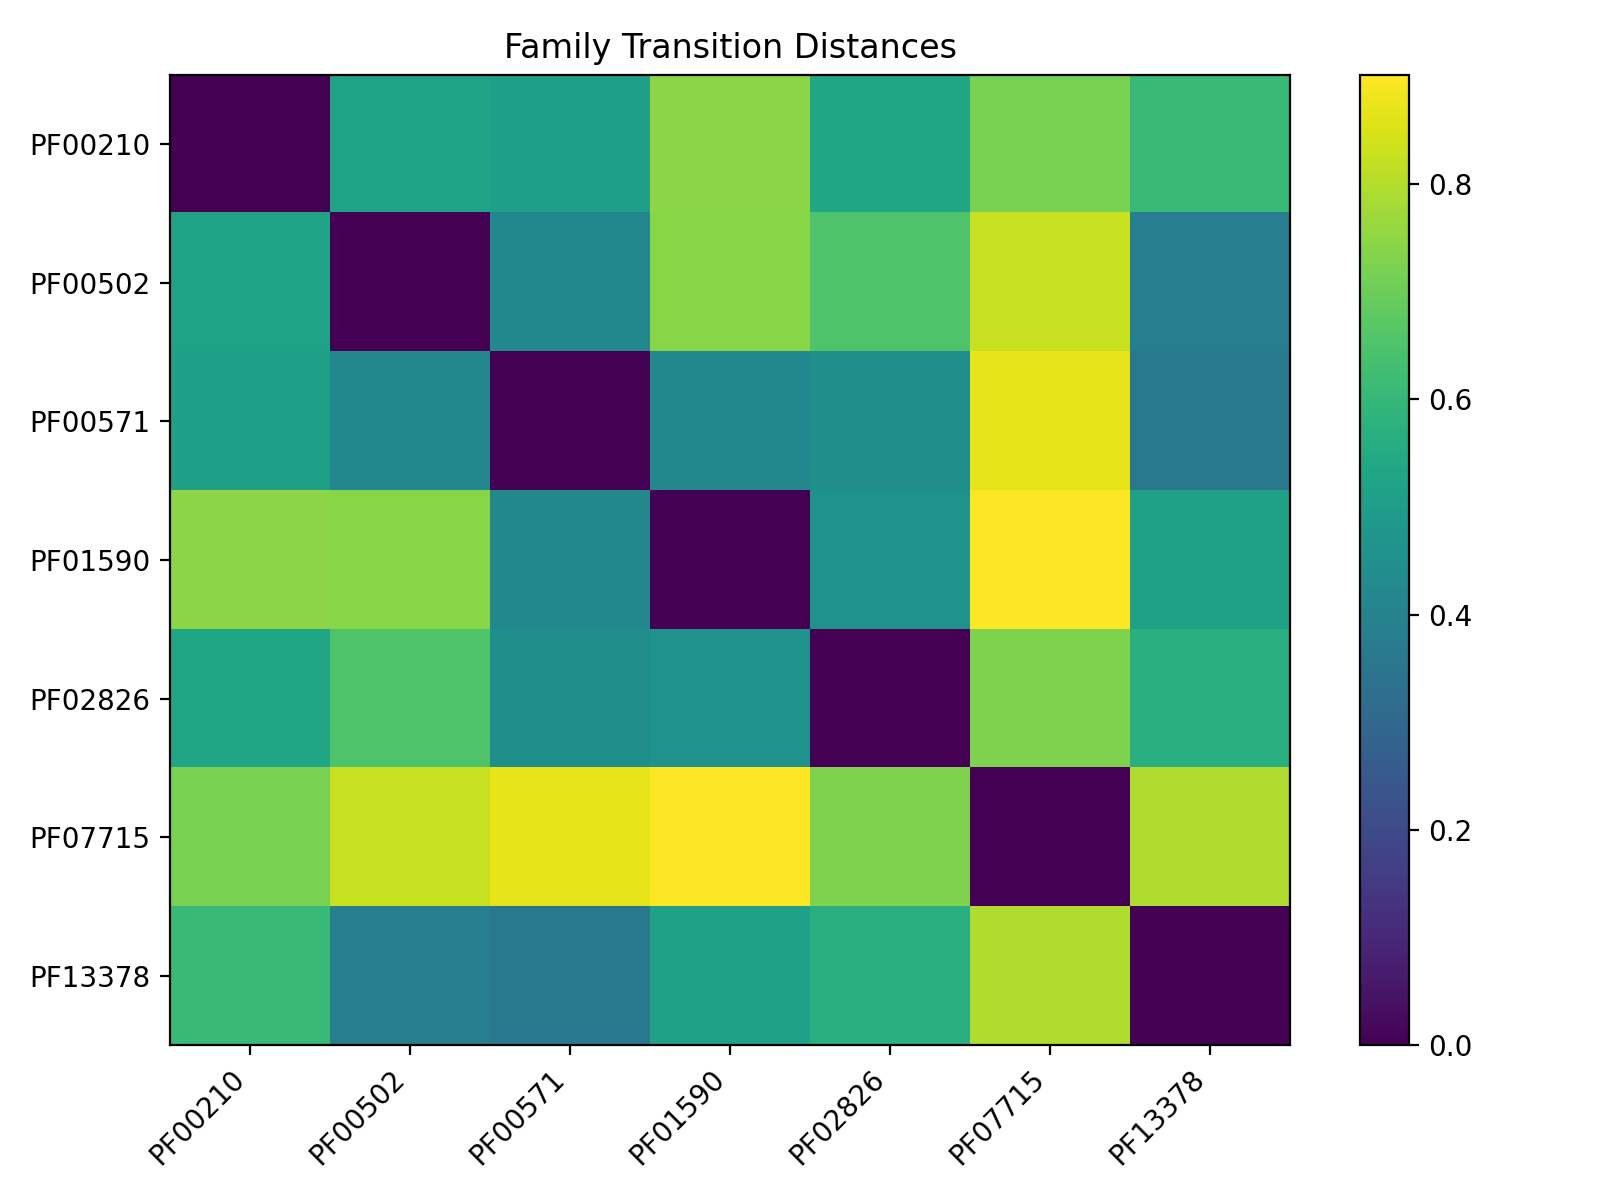
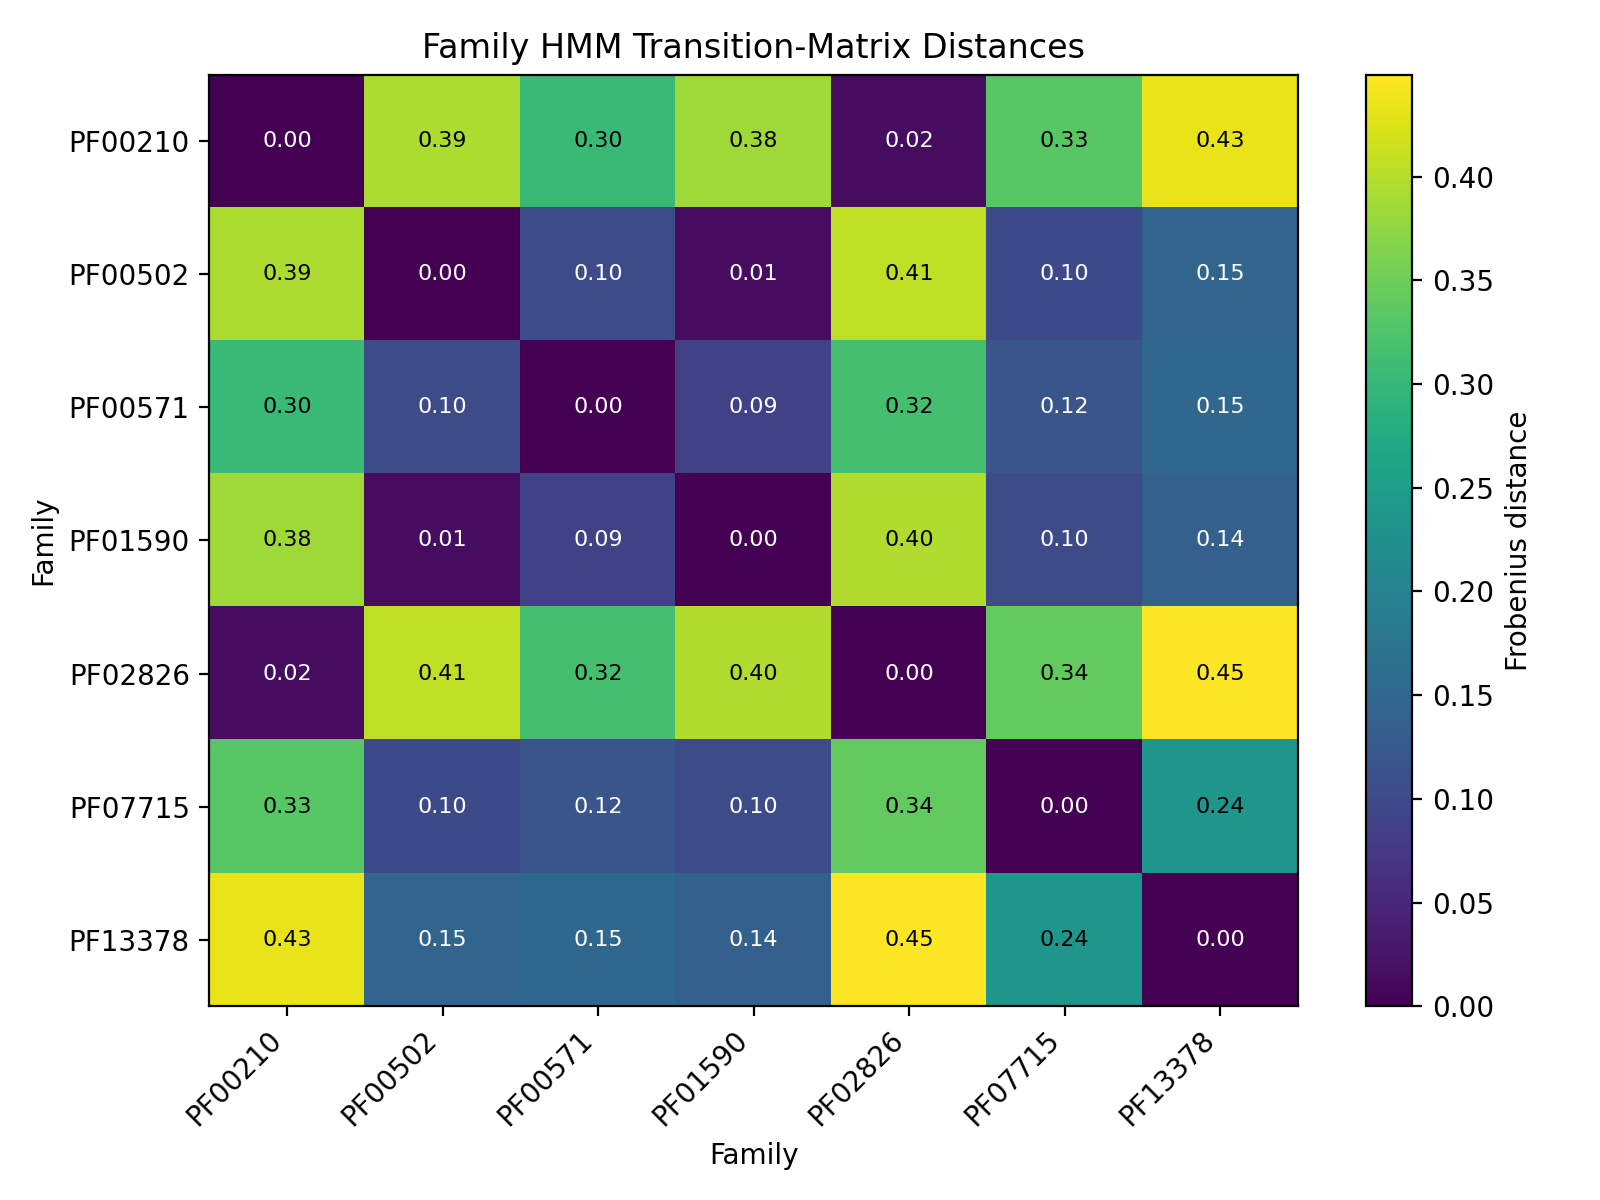
add poster reporting tables figures and captions

diff --git a/scripts/make_report_tables.py b/scripts/make_report_tables.py
@@ -1,0 +1,199 @@
+from __future__ import annotations
+
+import csv
+from pathlib import Path
+from typing import Any
+
+from _bootstrap import bootstrap
+
+ROOT = bootstrap()
+
+from protein_hmm.config import load_project_config
+from protein_hmm.utils.io import read_json
+from protein_hmm.utils.paths import resolve_project_path
+
+
+def _write_csv(path: Path, rows: list[dict[str, Any]], fieldnames: list[str]) -> None:
+    path.parent.mkdir(parents=True, exist_ok=True)
+    with path.open("w", encoding="utf-8", newline="") as handle:
+        writer = csv.DictWriter(handle, fieldnames=fieldnames)
+        writer.writeheader()
+        writer.writerows(rows)
+
+
+def _fmt(value: float | int | None, digits: int = 4) -> str:
+    if value is None:
+        return ""
+    if isinstance(value, int):
+        return str(value)
+    return f"{value:.{digits}f}"
+
+
+def _family_counts_text(counts: dict[str, int]) -> str:
+    return "; ".join(f"{family}:{count}" for family, count in counts.items())
+
+
+def _state_map_text(mapping: dict[str, str] | dict[int, str] | None) -> str:
+    if not mapping:
+        return ""
+    return "; ".join(f"{state}->{label}" for state, label in mapping.items())
+
+
+def _model_evaluation_rows(model_selection: dict[str, Any]) -> list[dict[str, Any]]:
+    rows = []
+    for row in model_selection.get("results", []):
+        evaluation = row.get("annotation_evaluation", {})
+        diagnostics = row.get("training_diagnostics", {})
+        rows.append(
+            {
+                "num_states": row["num_states"],
+                "train_log_likelihood": _fmt(row.get("train_log_likelihood"), 2),
+                "val_log_likelihood": _fmt(row.get("val_log_likelihood"), 2),
+                "test_log_likelihood": _fmt(row.get("test_log_likelihood"), 2),
+                "bic": _fmt(row.get("bic"), 2),
+                "q3": _fmt(evaluation.get("q3")),
+                "sov": _fmt(evaluation.get("sov")),
+                "ari": _fmt(evaluation.get("ari")),
+                "state_label_map": _state_map_text(evaluation.get("state_label_map")),
+                "iterations": diagnostics.get("iterations", ""),
+                "converged": diagnostics.get("converged", ""),
+                "last_delta_per_observation": _fmt(diagnostics.get("last_delta_per_observation"), 8),
+                "near_converged_per_observation": diagnostics.get("near_converged_per_observation", ""),
+            }
+        )
+    return rows
+
+
+def _family_self_rank_rows(family_comparison: dict[str, Any]) -> list[dict[str, Any]]:
+    families = family_comparison["families"]
+    matrix = family_comparison["cross_family_log_likelihood_per_residue"]
+    rows = []
+    for test_index, family in enumerate(families):
+        ranked = sorted(
+            ((matrix[model_index][test_index], families[model_index]) for model_index in range(len(families))),
+            reverse=True,
+        )
+        rows.append(
+            {
+                "test_family": family,
+                "best_model_family": ranked[0][1],
+                "best_log_likelihood_per_residue": _fmt(ranked[0][0]),
+                "self_log_likelihood_per_residue": _fmt(matrix[test_index][test_index]),
+                "self_rank": [candidate[1] for candidate in ranked].index(family) + 1,
+            }
+        )
+    return rows
+
+
+def _caption_text() -> str:
+    return """# Figure Captions
+
+## Model Selection by BIC
+Candidate unsupervised HMMs were fit with 2, 3, 4, 6, and 8 latent states. Lower BIC indicates stronger support after penalizing additional transition, emission, and start-probability parameters.
+
+## 2-State Emission Probabilities
+Rows show latent states and columns show amino-acid emission probabilities. The selected 2-state model separates amino-acid composition regimes rather than DSSP secondary-structure classes.
+
+## 2-State Transition Matrix
+Entries show transition probabilities between latent states. State 1 is comparatively persistent, while State 0 more often transitions into State 1.
+
+## Family HMM Transition-Matrix Distances
+Pairwise Frobenius distances between family-specific transition matrices. Smaller values indicate families whose learned transition dynamics are more similar.
+"""
+
+
+def main() -> None:
+    config = load_project_config(ROOT)
+    metrics_dir = resolve_project_path(config.experiments["outputs"]["metrics_dir"], ROOT)
+    table_dir = resolve_project_path("reports/tables", ROOT)
+    notes_dir = resolve_project_path("reports/notes", ROOT)
+
+    dataset_summary = read_json(metrics_dir / "dataset_summary.json")
+    model_selection = read_json(metrics_dir / "model_selection.json")
+    baselines = read_json(metrics_dir / "baselines.json")
+    family_comparison = read_json(metrics_dir / "family_comparison.json")
+    structure_summary = read_json(metrics_dir / "structure_annotation_summary.json")
+
+    dataset_rows = []
+    for split_name in ("train", "val", "test", "all"):
+        split = dataset_summary[split_name]
+        dataset_rows.append(
+            {
+                "split": split_name,
+                "num_proteins": split["num_proteins"],
+                "min_length": split["length_summary"]["min"],
+                "max_length": split["length_summary"]["max"],
+                "mean_length": _fmt(split["length_summary"]["mean"], 2),
+                "family_counts": _family_counts_text(split["family_counts"]),
+            }
+        )
+    _write_csv(
+        table_dir / "dataset_summary.csv",
+        dataset_rows,
+        ["split", "num_proteins", "min_length", "max_length", "mean_length", "family_counts"],
+    )
+
+    _write_csv(
+        table_dir / "model_evaluation.csv",
+        _model_evaluation_rows(model_selection),
+        [
+            "num_states",
+            "train_log_likelihood",
+            "val_log_likelihood",
+            "test_log_likelihood",
+            "bic",
+            "q3",
+            "sov",
+            "ari",
+            "state_label_map",
+            "iterations",
+            "converged",
+            "last_delta_per_observation",
+            "near_converged_per_observation",
+        ],
+    )
+
+    baseline_rows = [
+        {
+            "baseline": row["name"],
+            "q3": _fmt(row["q3"]),
+            "sov": _fmt(row["sov"]),
+            "mapping": row["mapping"] if isinstance(row["mapping"], str) else _state_map_text(row["mapping"]),
+        }
+        for row in baselines["baselines"]
+    ]
+    _write_csv(table_dir / "baseline_metrics.csv", baseline_rows, ["baseline", "q3", "sov", "mapping"])
+
+    _write_csv(
+        table_dir / "family_model_self_ranks.csv",
+        _family_self_rank_rows(family_comparison),
+        [
+            "test_family",
+            "best_model_family",
+            "best_log_likelihood_per_residue",
+            "self_log_likelihood_per_residue",
+            "self_rank",
+        ],
+    )
+
+    notes_dir.mkdir(parents=True, exist_ok=True)
+    best_bic = min(model_selection["results"], key=lambda row: row["bic"])
+    best_val = max(model_selection["results"], key=lambda row: row["val_log_likelihood"])
+    baseline_best = max(baselines["baselines"], key=lambda row: row["q3"])
+    key_results = f"""# Poster Key Results
+
+- Structure-linked dataset: {structure_summary["num_annotated_records"]} annotated proteins from {structure_summary["num_seed_records"]} Pfam seed candidates.
+- Final split sizes: {dataset_summary["train"]["num_proteins"]} train, {dataset_summary["val"]["num_proteins"]} validation, {dataset_summary["test"]["num_proteins"]} test.
+- BIC-selected unsupervised HMM: {best_bic["num_states"]} latent states with BIC {_fmt(best_bic["bic"], 2)}.
+- Validation-likelihood-selected HMM: {best_val["num_states"]} latent states with validation log-likelihood {_fmt(best_val["val_log_likelihood"], 2)}.
+- Best annotation baseline by Q3: {baseline_best["name"]} with Q3 {_fmt(baseline_best["q3"])} and SOV {_fmt(baseline_best["sov"])}.
+- Main interpretation: unsupervised HMMs capture amino-acid composition and family-level dynamics more clearly than DSSP secondary-structure classes.
+"""
+    (notes_dir / "poster_key_results.md").write_text(key_results, encoding="utf-8")
+    (notes_dir / "figure_captions.md").write_text(_caption_text(), encoding="utf-8")
+    print(f"Wrote report tables under {table_dir}")
+    print(f"Wrote report notes under {notes_dir}")
+
+
+if __name__ == "__main__":
+    main()

diff --git a/scripts/make_report_figures.py b/scripts/make_report_figures.py
@@ -15,7 +15,7 @@ from protein_hmm.visualization.summary_plots import plot_likelihood_curve
 
 def main() -> None:
     config = load_project_config(ROOT)
-    figure_dir = resolve_project_path("reports/figures", ROOT)
+    figure_dir = resolve_project_path(config.experiments["outputs"]["figure_dir"], ROOT)
 
     model_selection_path = resolve_project_path(config.experiments["outputs"]["metrics_dir"], ROOT) / "model_selection.json"
     if model_selection_path.exists():
@@ -25,8 +25,10 @@ def main() -> None:
         plot_likelihood_curve(
             state_counts=state_counts,
             scores=bic_scores,
-            title="Model Selection (BIC)",
+            title="Model Selection by BIC",
             path=figure_dir / "model_selection_bic.png",
+            ylabel="BIC (lower is better)",
+            note="Lower is better",
         )
 
     model_path = resolve_project_path(config.experiments["outputs"]["model_dir"], ROOT) / "unsupervised_hmm.json"
@@ -39,15 +41,23 @@ def main() -> None:
             params.emission_probs,
             row_labels=[f"State {index}" for index in range(model.num_states)],
             col_labels=list(AMINO_ACIDS),
-            title="Emission Probabilities",
+            title=f"{model.num_states}-State Emission Probabilities",
             path=figure_dir / "emission_heatmap.png",
+            colorbar_label="Emission probability",
+            xlabel="Amino acid",
+            ylabel="Latent state",
         )
         plot_matrix(
             params.transition_probs,
             row_labels=[f"State {index}" for index in range(model.num_states)],
             col_labels=[f"State {index}" for index in range(model.num_states)],
-            title="Transition Matrix",
+            title=f"{model.num_states}-State Transition Matrix",
             path=figure_dir / "transition_heatmap.png",
+            colorbar_label="Transition probability",
+            xlabel="Next state",
+            ylabel="Current state",
+            annotate=True,
+            value_format=".2f",
         )
 
     family_path = resolve_project_path(config.experiments["outputs"]["metrics_dir"], ROOT) / "family_comparison.json"
@@ -58,8 +68,13 @@ def main() -> None:
             payload["transition_distance_matrix"],
             row_labels=families,
             col_labels=families,
-            title="Family Transition Distances",
+            title="Family HMM Transition-Matrix Distances",
             path=figure_dir / "family_transition_distances.png",
+            colorbar_label="Frobenius distance",
+            xlabel="Family",
+            ylabel="Family",
+            annotate=True,
+            value_format=".2f",
         )
     print(f"Saved report figures under {figure_dir}")
 

diff --git a/src/protein_hmm/visualization/heatmaps.py b/src/protein_hmm/visualization/heatmaps.py
@@ -21,16 +21,42 @@ def plot_matrix(
     col_labels: list[str],
     title: str,
     path: str | Path | None = None,
+    colorbar_label: str | None = None,
+    xlabel: str | None = None,
+    ylabel: str | None = None,
+    annotate: bool = False,
+    value_format: str = ".2f",
 ) -> None:
     plt = _require_matplotlib()
+    values = np.asarray(matrix, dtype=float)
     figure, axis = plt.subplots(figsize=(8, 6))
-    image = axis.imshow(np.asarray(matrix, dtype=float), aspect="auto", cmap="viridis")
+    image = axis.imshow(values, aspect="auto", cmap="viridis")
     axis.set_title(title)
+    if xlabel is not None:
+        axis.set_xlabel(xlabel)
+    if ylabel is not None:
+        axis.set_ylabel(ylabel)
     axis.set_yticks(range(len(row_labels)))
     axis.set_yticklabels(row_labels)
     axis.set_xticks(range(len(col_labels)))
     axis.set_xticklabels(col_labels, rotation=45, ha="right")
-    figure.colorbar(image, ax=axis)
+    colorbar = figure.colorbar(image, ax=axis)
+    if colorbar_label is not None:
+        colorbar.set_label(colorbar_label)
+    if annotate:
+        threshold = float((np.nanmax(values) + np.nanmin(values)) / 2.0)
+        for row_index in range(values.shape[0]):
+            for col_index in range(values.shape[1]):
+                color = "black" if values[row_index, col_index] > threshold else "white"
+                axis.text(
+                    col_index,
+                    row_index,
+                    format(values[row_index, col_index], value_format),
+                    ha="center",
+                    va="center",
+                    color=color,
+                    fontsize=8,
+                )
     figure.tight_layout()
     if path is not None:
         Path(path).parent.mkdir(parents=True, exist_ok=True)

diff --git a/src/protein_hmm/visualization/summary_plots.py b/src/protein_hmm/visualization/summary_plots.py
@@ -13,13 +13,30 @@ def _require_matplotlib():
     return plt
 
 
-def plot_likelihood_curve(state_counts: list[int], scores: list[float], title: str, path: str | Path | None = None) -> None:
+def plot_likelihood_curve(
+    state_counts: list[int],
+    scores: list[float],
+    title: str,
+    path: str | Path | None = None,
+    ylabel: str = "Score",
+    note: str | None = None,
+) -> None:
     plt = _require_matplotlib()
     figure, axis = plt.subplots(figsize=(6, 4))
     axis.plot(state_counts, scores, marker="o")
     axis.set_title(title)
     axis.set_xlabel("Number of latent states")
-    axis.set_ylabel("Score")
+    axis.set_ylabel(ylabel)
+    if note is not None:
+        axis.text(
+            0.02,
+            0.02,
+            note,
+            transform=axis.transAxes,
+            ha="left",
+            va="bottom",
+            fontsize=8,
+        )
     figure.tight_layout()
     if path is not None:
         Path(path).parent.mkdir(parents=True, exist_ok=True)

diff --git a/README.md b/README.md
@@ -28,6 +28,8 @@ pip install -e .
 python scripts/build_dataset.py
 python scripts/train_unsupervised.py
 python scripts/run_model_selection.py
+python scripts/evaluate_baselines.py
+python scripts/make_report_tables.py
 ```
 
 4. Run the lightweight test suite:
@@ -55,8 +57,12 @@ supported.
 - `scripts/train_reference_hmm.py`: fit a constrained reference HMM using
   label supervision.
 - `scripts/run_model_selection.py`: evaluate candidate numbers of latent states
-  with BIC.
+  with BIC, held-out likelihood, annotation metrics, and convergence diagnostics.
+- `scripts/evaluate_baselines.py`: compute global, family-specific, and
+  residue-specific DSSP label baselines.
 - `scripts/make_report_figures.py`: generate report-ready plots.
+- `scripts/make_report_tables.py`: export poster-ready tables and figure
+  captions from generated metrics.
 
 ## Current Scope
 

diff --git a/reports/notes/figure_captions.md b/reports/notes/figure_captions.md
@@ -1,0 +1,13 @@
+# Figure Captions
+
+## Model Selection by BIC
+Candidate unsupervised HMMs were fit with 2, 3, 4, 6, and 8 latent states. Lower BIC indicates stronger support after penalizing additional transition, emission, and start-probability parameters.
+
+## 2-State Emission Probabilities
+Rows show latent states and columns show amino-acid emission probabilities. The selected 2-state model separates amino-acid composition regimes rather than DSSP secondary-structure classes.
+
+## 2-State Transition Matrix
+Entries show transition probabilities between latent states. State 1 is comparatively persistent, while State 0 more often transitions into State 1.
+
+## Family HMM Transition-Matrix Distances
+Pairwise Frobenius distances between family-specific transition matrices. Smaller values indicate families whose learned transition dynamics are more similar.

diff --git a/reports/notes/poster_key_results.md b/reports/notes/poster_key_results.md
@@ -1,0 +1,8 @@
+# Poster Key Results
+
+- Structure-linked dataset: 55 annotated proteins from 146 Pfam seed candidates.
+- Final split sizes: 37 train, 9 validation, 9 test.
+- BIC-selected unsupervised HMM: 2 latent states with BIC 31359.64.
+- Validation-likelihood-selected HMM: 4 latent states with validation log-likelihood -3728.67.
+- Best annotation baseline by Q3: residue_majority_label with Q3 0.5465 and SOV 0.4794.
+- Main interpretation: unsupervised HMMs capture amino-acid composition and family-level dynamics more clearly than DSSP secondary-structure classes.
